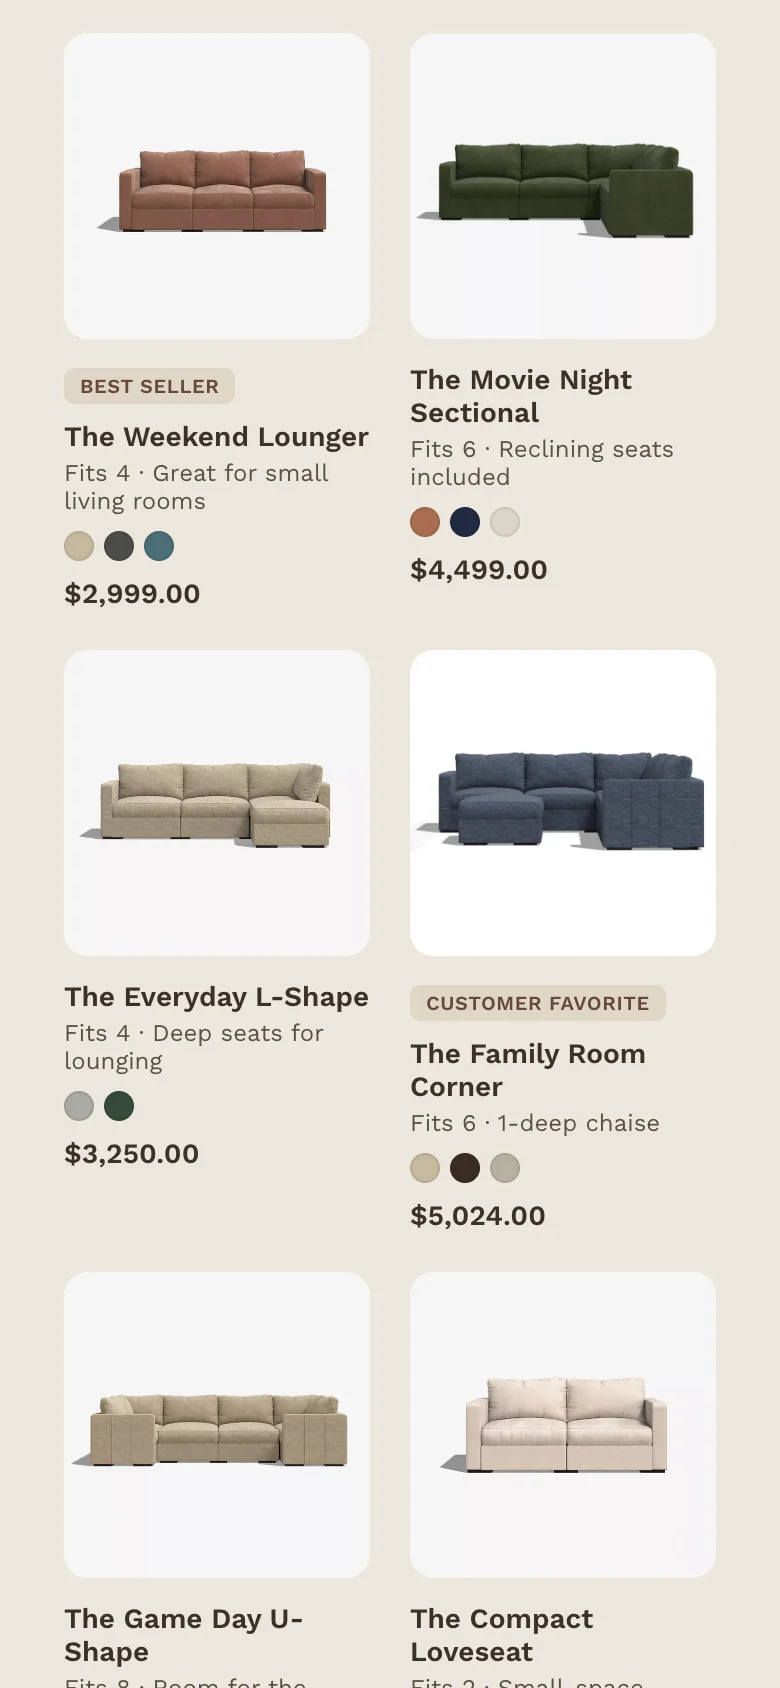
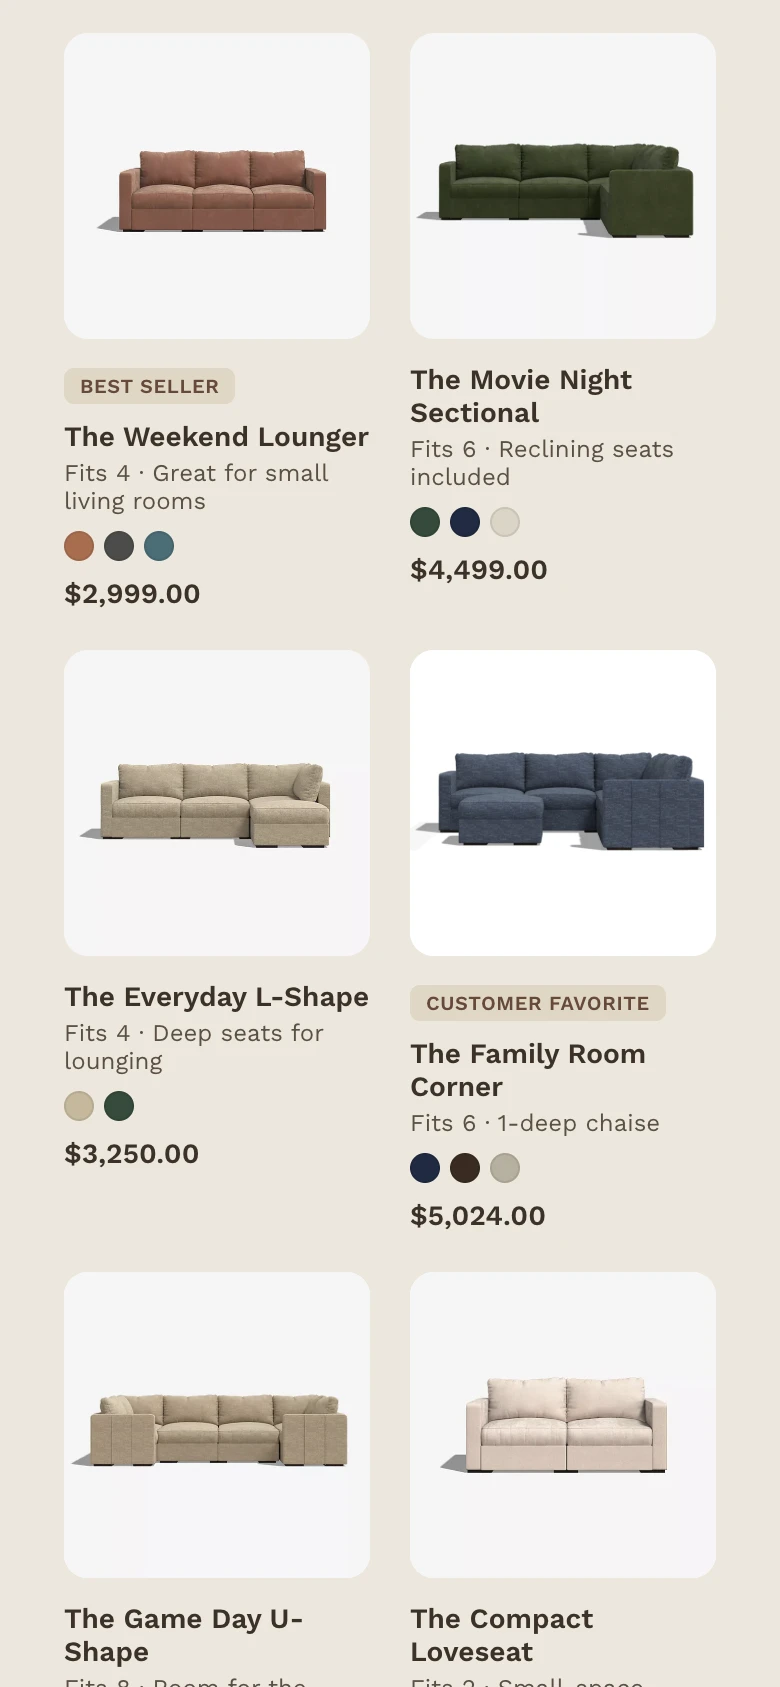
Sync product grid image and copy with the live redesign catalog
- Replace lovesac-product-grid-redesign.webp with an updated
  screenshot reflecting the corrected swatch colors.
- Fix two of the four Product Discovery example rows whose "Fits N ·
  ..." copy had drifted from what lovesac-sactionals.html actually
  says (Weekend Lounger, Family Room Corner). The other two were
  already in sync.

diff --git a/work/lovesac-case-study-5.html b/work/lovesac-case-study-5.html
@@ -484,7 +484,7 @@
       </div>
       <div class="nav-col after">
         <div class="nav-label"><span class="sw"></span>Redesign — product grid</div>
-        <div class="phone-frame-wide"><img src="/images/lovesac-product-grid-redesign.webp" width="780" height="1688" loading="lazy" decoding="async" alt="Redesigned product grid: named sectionals — The Weekend Lounger, The Movie Night Sectional, The Everyday L-Shape, The Family Room Corner — each with a fit and use-case detail, and badges (Best Seller, Customer Favorite) used selectively rather than on every card."></div>
+        <div class="phone-frame-wide"><img src="/images/lovesac-product-grid-redesign.webp" width="780" height="1687" loading="lazy" decoding="async" alt="Redesigned product grid: named sectionals — The Weekend Lounger, The Movie Night Sectional, The Everyday L-Shape, The Family Room Corner — each with a fit and use-case detail, and badges (Best Seller, Customer Favorite) used selectively rather than on every card."></div>
       </div>
     </div>
 
@@ -499,7 +499,7 @@
     <div class="compare-grid" style="max-width:640px;">
       <div class="compare-card">
         <div class="compare-val">The Weekend Lounger</div>
-        <div class="compare-sub" style="font-style:italic;">Fits 4 &middot; Deep seating</div>
+        <div class="compare-sub" style="font-style:italic;">Fits 4 &middot; Great for small living rooms</div>
       </div>
       <div class="compare-card">
         <div class="compare-val">The Movie Night Sectional</div>
@@ -511,7 +511,7 @@
       </div>
       <div class="compare-card">
         <div class="compare-val">The Family Room Corner</div>
-        <div class="compare-sub" style="font-style:italic;">Fits 6 &middot; Flexible configuration</div>
+        <div class="compare-sub" style="font-style:italic;">Fits 6 &middot; 1-deep chaise</div>
       </div>
     </div>
 
@@ -592,7 +592,7 @@
       </div>
       <div class="nav-col after">
         <div class="nav-label"><span class="sw"></span>Redesign — product grid</div>
-        <div class="phone-frame-wide"><img src="/images/lovesac-product-grid-redesign.webp" width="780" height="1688" loading="lazy" decoding="async" alt="Redesigned product grid on a warm, oatmeal-toned neutral background that sits closer to the colors and materials of the products themselves."></div>
+        <div class="phone-frame-wide"><img src="/images/lovesac-product-grid-redesign.webp" width="780" height="1687" loading="lazy" decoding="async" alt="Redesigned product grid on a warm, oatmeal-toned neutral background that sits closer to the colors and materials of the products themselves."></div>
       </div>
     </div>
 
